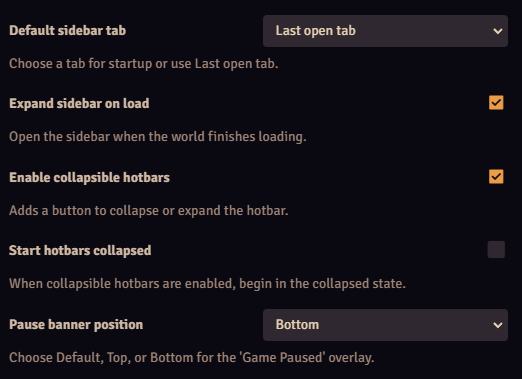
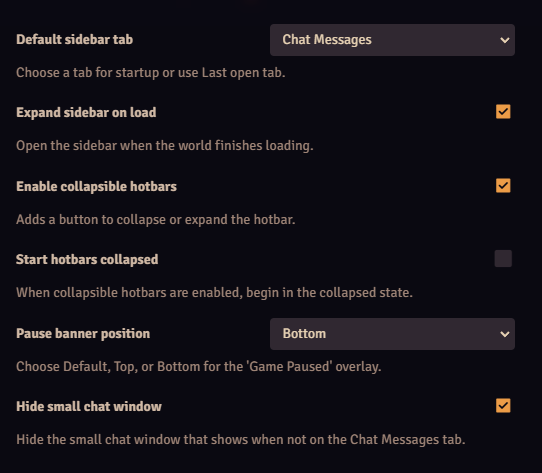
v2.0.0 hide small chat window and update description

diff --git a/styles/nores-interface-enhancements.css b/styles/nores-interface-enhancements.css
@@ -1,4 +1,4 @@
-/* Nore's Interface Enhancements v2.9.3 */
+/* Nore's Interface Enhancements v3.0.0 */
 /* Lower the Game Paused overlay */
 body.nie-lower-pause #pause {
   top: 20% !important;
@@ -7,7 +7,7 @@ body.nie-lower-pause #pause {
 }
 
 
-/* Collapse rules for v2.8.1 toggle: show only our toggle when collapsed */
+/* Collapse rules for v3.0.0 toggle: show only our toggle when collapsed */
 #hotbar.nie-hb-collapsed #action-bar,
 #hotbar.nie-hb-collapsed #macro-list,
 #hotbar.nie-hb-collapsed .macro-list,

diff --git a/README.md b/README.md
@@ -25,6 +25,9 @@ Adds a small button next to the hotbar controls that hides or shows the hotbar. 
 * The button sits next to the audio and menu controls
 * The button stays visible when collapsed so you can reopen the hotbar
 
+## Hide small chat window
+Adds a setting to hide the small chat window that appears when you are not on the Chat Messages tab. When enabled, the small chat stays hidden unless you switch to the Chat tab.
+
 ## Module settings
 All options live in Game Settings under the module name.
 

diff --git a/CHANGELOG.md b/CHANGELOG.md
@@ -1,5 +1,7 @@
 # Changelog
 
+## 3.0.0
+* Add setting to hide the small chat window when not on the Chat tab
 
 ## 2.9.8
 * Fixed some issues and typos
